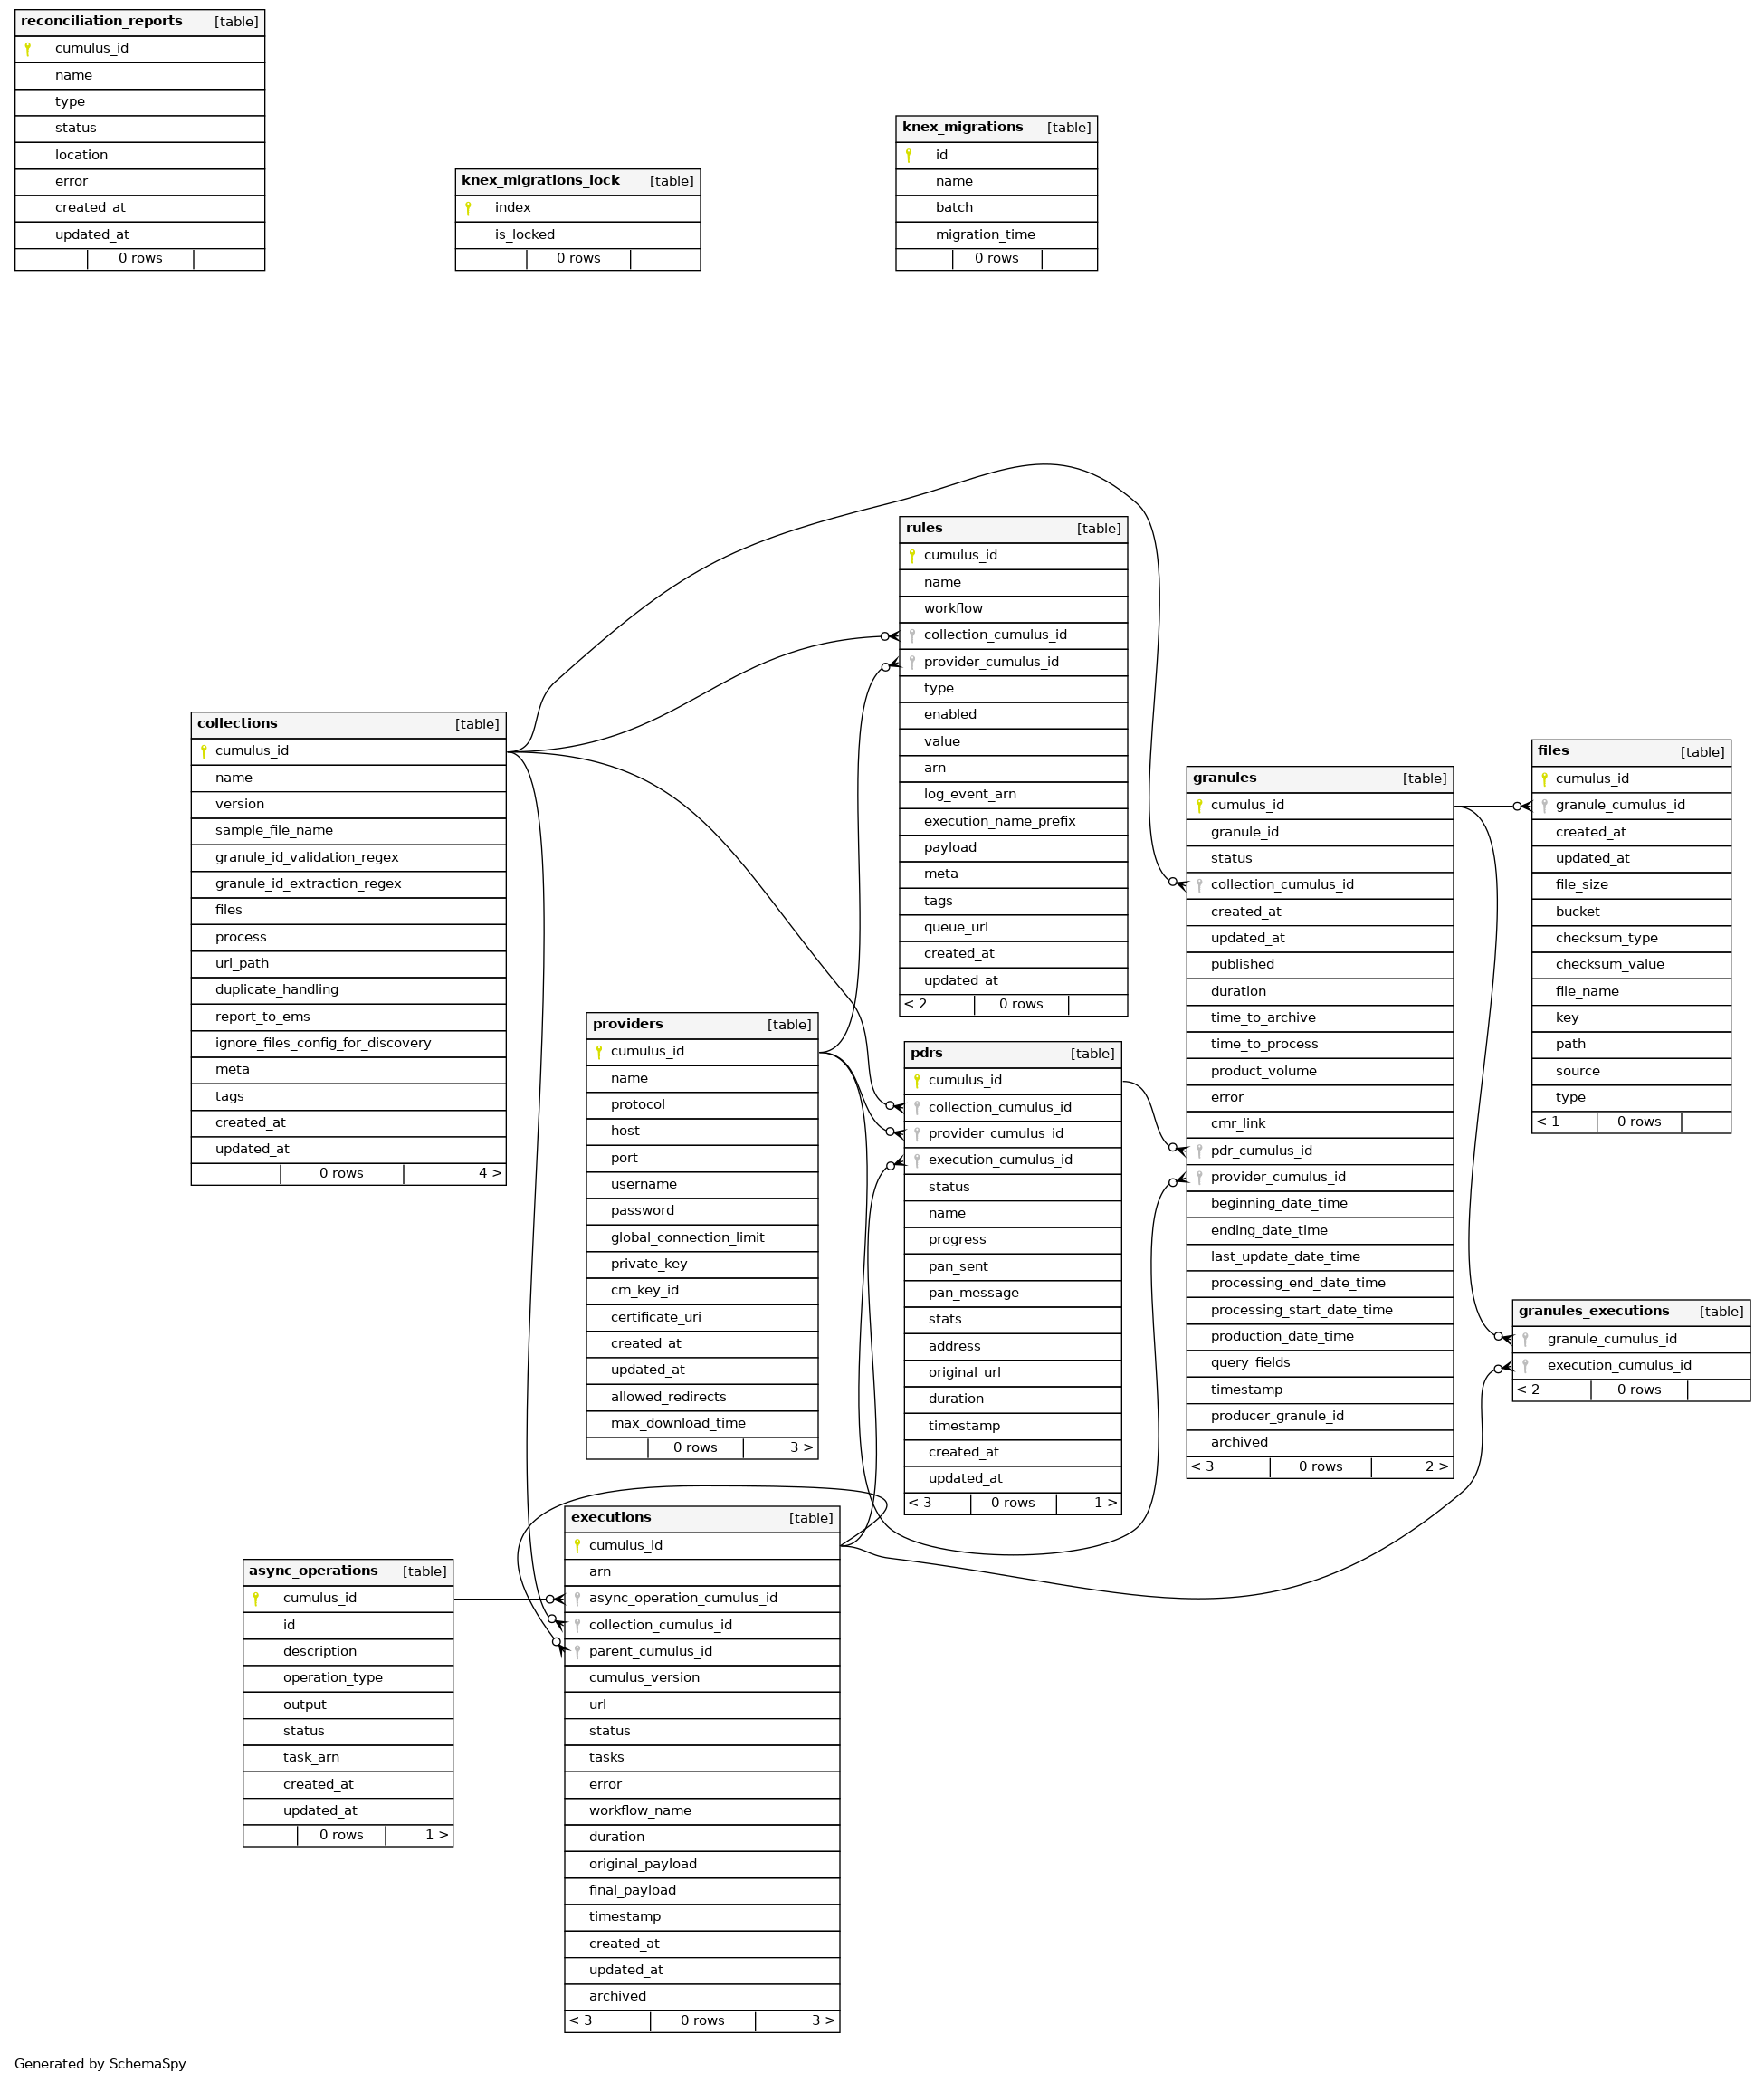
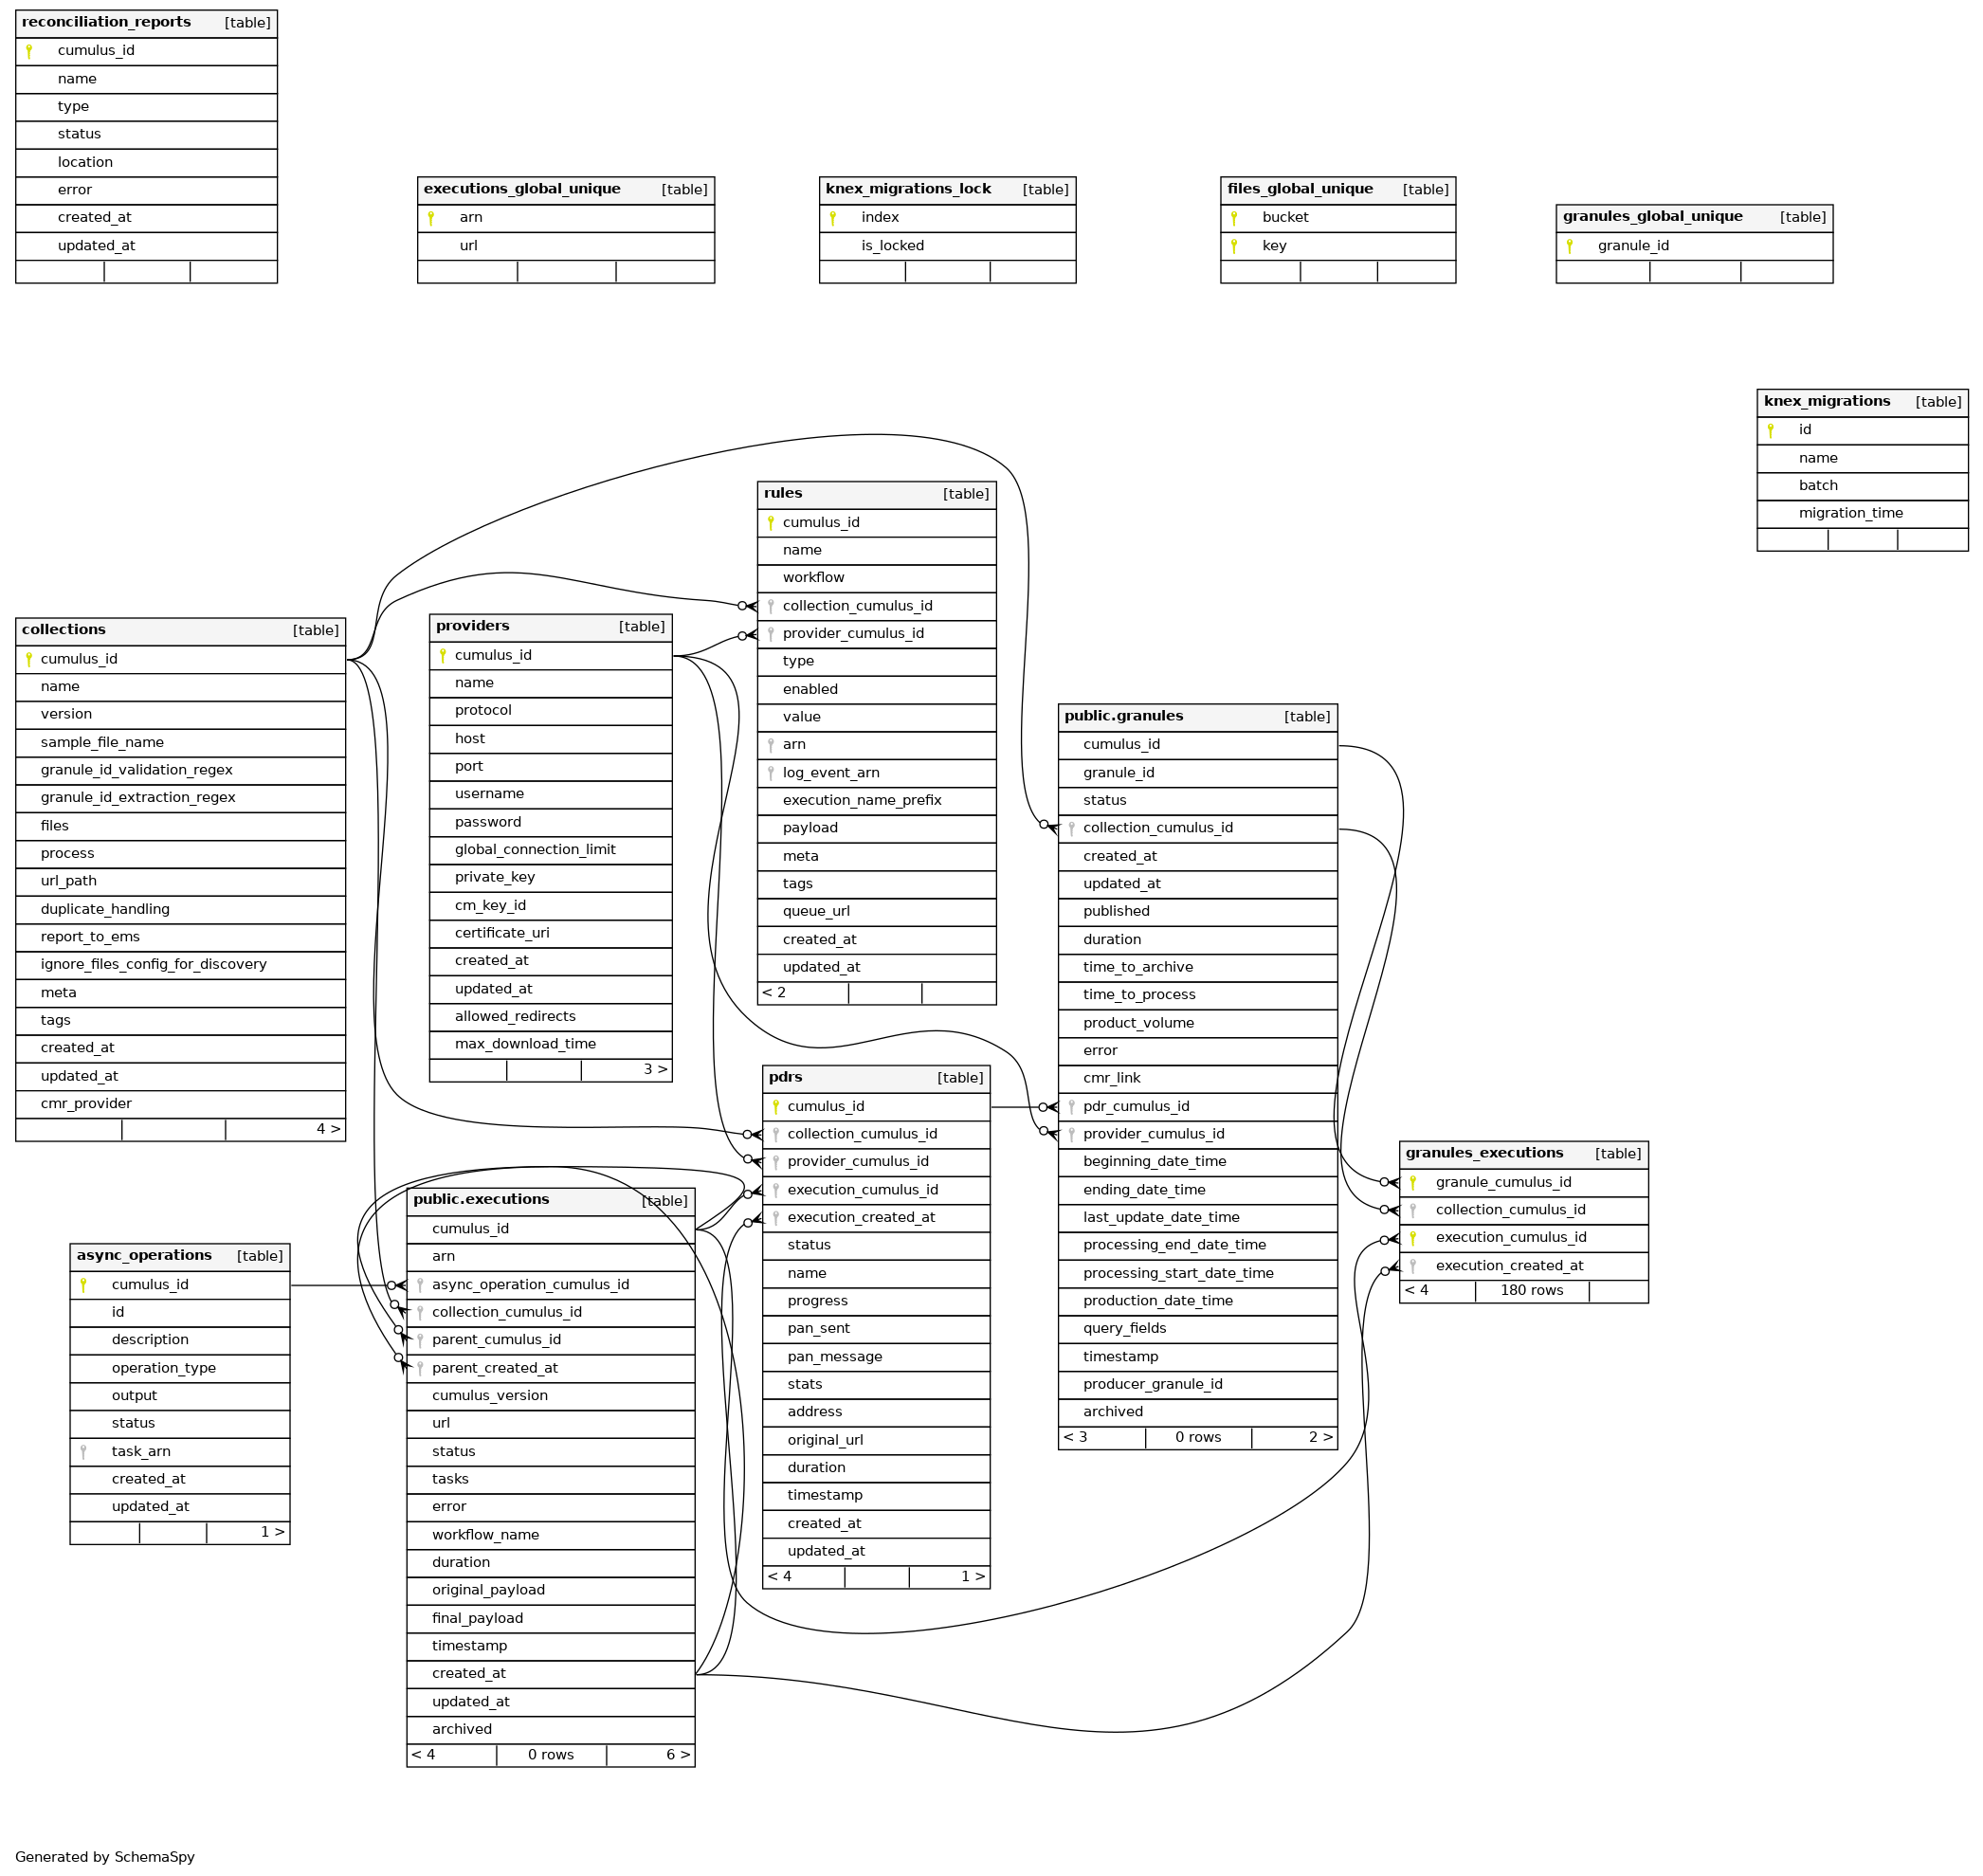
update postgres docker image to 17.4 update schema diagram ignore partition

diff --git a/docs/development/release.md b/docs/development/release.md
@@ -217,10 +217,11 @@ Commit and push these changes, if any.
 Check the release updates for DB schema migrations.   If there are any, run the following generation using [schemaspy](https://schemaspy.org/) via the latest published container:
 
 ```sh
-docker run --rm -v ~/output:/output  schemaspy/schemaspy:latest -t pgsql -host host.docker.internal -port 5432 -u postgres -p password -s public -db postgres
+docker run --rm -v ~/output:/output  schemaspy/schemaspy:latest -t pgsql -host host.docker.internal -port 5432 -u postgres -p password -s public -db dbname -I ".*_p[0-9]+$|.*_[0-9]{4}_q[1-4]$|.*_default$"
 ```
 
 With "-v "(host output directory):/output" set to the local work/scratch directory you intend to use.
+The "-I" flag excludes partition tables from the output.
 
 Replace (project)/docs/assets/db_schema/relationships.real.large.png with the generated file from the schemapy output at `./diagrams/summary/relationships.real.large.png`, and commit the change.
 